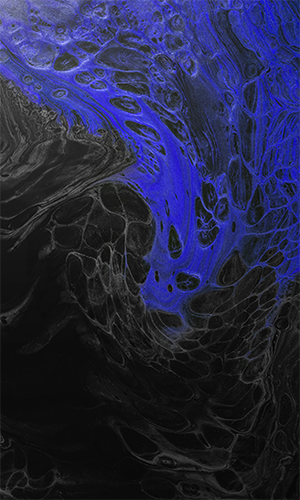
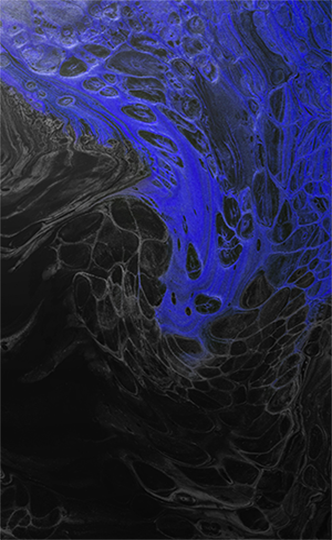
更新 oproll.ts，修改隨機操作員的返回值為 "Jackal"，並調整畫布尺寸以改善顯示效果

diff --git a/src/commands/rainbowSix/oproll.ts b/src/commands/rainbowSix/oproll.ts
@@ -13,7 +13,7 @@ function randomOperator ( side: any )
   {
     case "atk":
       random_num = Math.floor ( ( Math.random () * 10000 ) % atk_ops.length);
-      return atk_ops [ random_num ];
+      return "Jackal" //atk_ops [ random_num ];
       break;
 
     case "def":
@@ -110,7 +110,7 @@ export default
           opPicPath = `src\\data\\opsImg\\${ interaction.options.getString ( "side" ) }\\${ operator }.avif`
         }
 
-        const canvas = createCanvas ( 300, 500 );
+        const canvas = createCanvas ( 332, 540 );
         const context = canvas.getContext('2d');
         const background = await loadImage ( `src\\data\\opsImg\\background.png` );
         context.drawImage( background, 0, 0, canvas.width, canvas.height );
